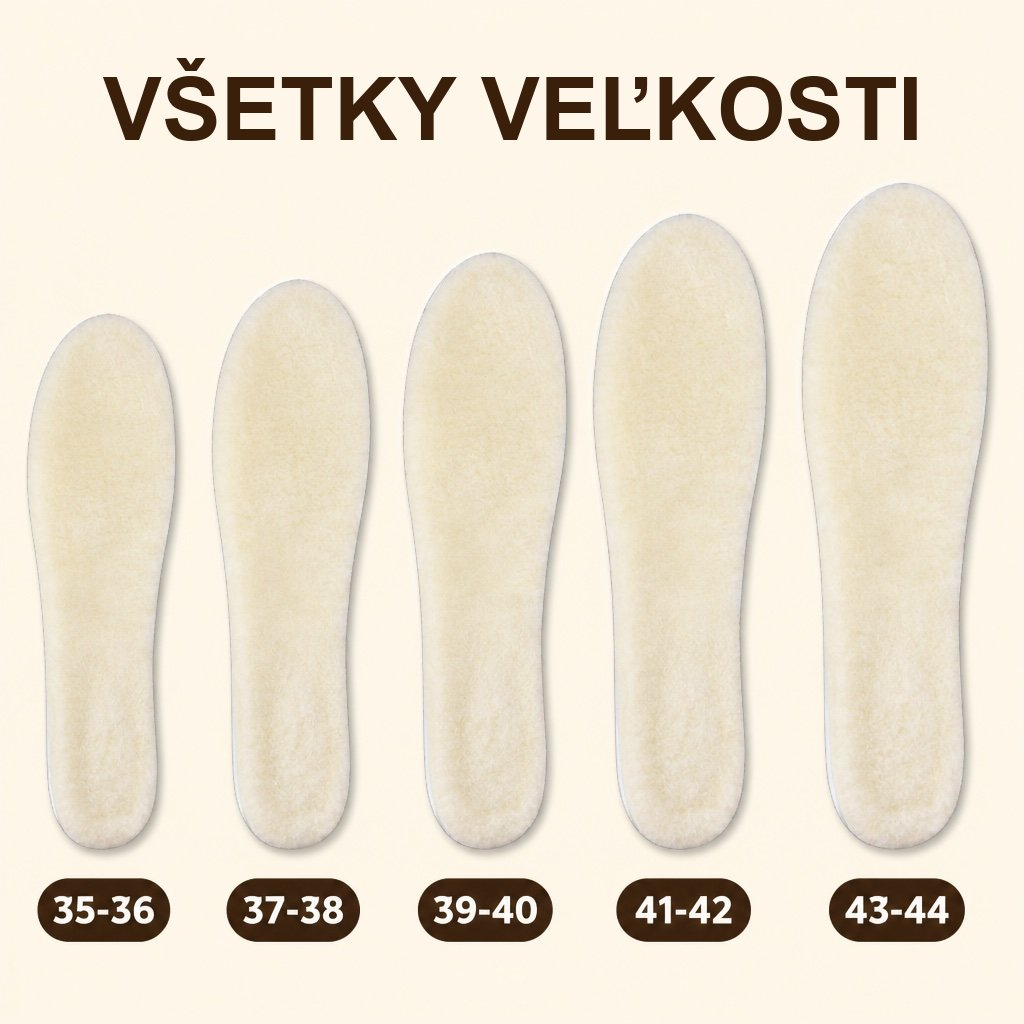
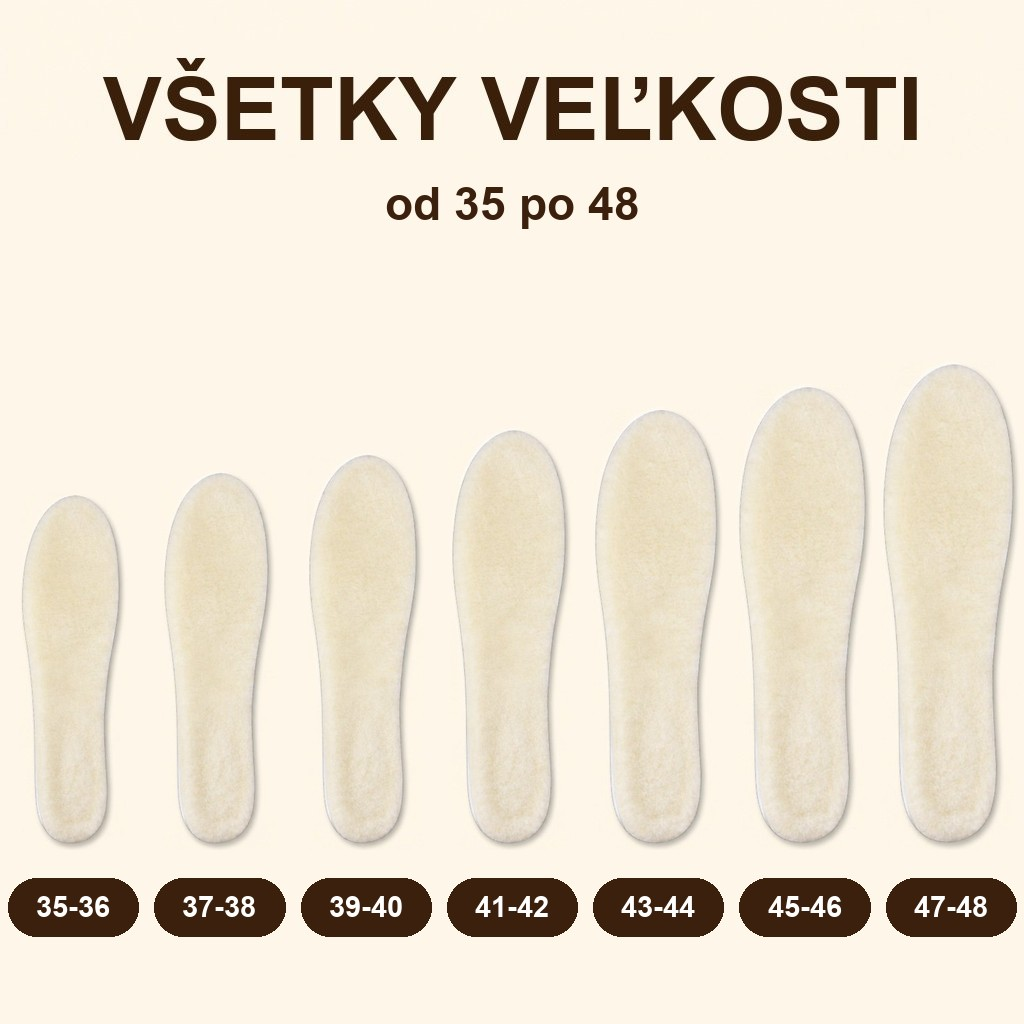
deploy 2026-11-27-1102

diff --git a/sk/toplin-zimne-vlozky/index.html b/sk/toplin-zimne-vlozky/index.html
@@ -4,7 +4,7 @@
 <meta charset="utf-8">
 <meta name="viewport" content="width=device-width, initial-scale=1, viewport-fit=cover">
 <title>TOPLIN | Zimné termo vložky do čižiem aj tenisiek</title>
-<meta name="description" content="Termo vložky TOPLIN: hustý plyš drží teplo nôh, dierkovaná EVA podložka púšťa vlhkosť von, vankúšik pod pätou tlmí krok. 5 veľkostí, platba na dobierku bez poplatku, dodanie do 1–2 dní.">
+<meta name="description" content="Termo vložky TOPLIN: hustý plyš drží teplo nôh, dierkovaná EVA podložka púšťa vlhkosť von, vankúšik pod pätou tlmí krok. 7 veľkostí od 35 do 48, platba na dobierku bez poplatku, dodanie do 1–2 dní.">
 <meta name="robots" content="noindex,follow">
 <link rel="icon" href="https://lp.auravelis.eu/favicon-32.png" sizes="32x32" type="image/png">
 <link rel="icon" href="https://lp.auravelis.eu/favicon-16.png" sizes="16x16" type="image/png">
@@ -255,7 +255,7 @@ window.lpSlug = function(){
     <img src="assets/product.jpg" alt="Pár vložiek TOPLIN — plyšová vrchná strana a dierkovaná spodná strana" loading="lazy" decoding="async" width="1024" height="1024" data-thumb="assets/thumbs/product.jpg">
     <img src="assets/lifestyle.jpg" alt="Vkladanie vložky TOPLIN do zimnej čižmy" loading="lazy" decoding="async" width="1024" height="1024" data-thumb="assets/thumbs/lifestyle.jpg">
     <img src="assets/benefits.jpg" alt="Prečo TOPLIN — drží teplo, odvádza vlhkosť, tlmí krok" loading="lazy" decoding="async" width="1024" height="1024" data-thumb="assets/thumbs/benefits.jpg">
-    <img src="assets/sizes.jpg" alt="TOPLIN vo veľkostiach od 35-36 po 43-44" loading="lazy" decoding="async" width="1024" height="1024" data-thumb="assets/thumbs/sizes.jpg">
+    <img src="assets/sizes.jpg" alt="TOPLIN vo veľkostiach od 35-36 po 47-48" loading="lazy" decoding="async" width="1024" height="1024" data-thumb="assets/thumbs/sizes.jpg">
     <img src="assets/howto.jpg" alt="Ako vložiť TOPLIN do topánky v troch krokoch" loading="lazy" decoding="async" width="1024" height="1024" data-thumb="assets/thumbs/howto.jpg">
   </div>
 </div>
@@ -264,7 +264,7 @@ window.lpSlug = function(){
 
 <div class="wrap hero-copy">
   
-  <div class="kick"><b>TOPLIN</b><span>plyš + EVA · 5 veľkostí od 35 do 44</span></div>
+  <div class="kick"><b>TOPLIN</b><span>plyš + EVA · 7 veľkostí od 35 do 48</span></div>
 
   <h1>TOPLIN | Zimné termo vložky s plyšom</h1>
 
@@ -305,7 +305,7 @@ window.lpSlug = function(){
 
   <div class="deliv">🚚 Objednaj dnes — dodanie do 1–2 dní</div>
   <div class="pays"><span>DOBIERKA</span><span>HOTOVOSŤ</span><span>KARTA</span><span>PAYPAL</span></div>
-  <div class="rowline">📏 <b>5 veľkostí</b> od 35 do 44</div>
+  <div class="rowline">📏 <b>7 veľkostí</b> od 35 do 48</div>
   <div class="rowline">🚚 <b>Dodanie do 1–2 dní</b> kuriérom na adresu</div>
   <div class="rowline">💵 <b>Platba na dobierku</b> bez poplatku — v hotovosti alebo kartou</div>
   
@@ -322,7 +322,7 @@ window.lpSlug = function(){
 <div class="wrap">
   <div class="faq" id="faq">
     <details id="faqSize"><summary><span class="fi">📏</span>Akú veľkosť si mám vybrať?</summary>
-      <p>Vyber podľa čísla obuvi, ktoré bežne nosíš — na výber je 35-36, 37-38, 39-40, 41-42 a 43-44. Ak si medzi dvoma veľkosťami, vezmi väčšiu: vložku ľahko zastrihneš nožnicami podľa pôvodnej vložky z topánky.</p></details>
+      <p>Vyber podľa čísla obuvi, ktoré bežne nosíš — na výber je 35-36, 37-38, 39-40, 41-42, 43-44, 45-46 a 47-48. Ak si medzi dvoma veľkosťami, vezmi väčšiu: vložku ľahko zastrihneš nožnicami podľa pôvodnej vložky z topánky.</p></details>
     <details><summary><span class="fi">🥾</span>Nebude mi topánka tesná?</summary>
       <p>TOPLIN je hrubší ako tenká vložka z výroby — práve vrstva plyšu drží teplo. Preto vždy najprv vyber pôvodnú vložku a TOPLIN vlož na jej miesto, nikdy nie na ňu. V čižmách, kanadách aj teniskách tak budeš mať približne toľko miesta ako predtým. Do veľmi úzkych topánok bez vyberateľnej vložky sa nehodí.</p></details>
     <details><summary><span class="fi">🔥</span>Ako plyš drží teplo a prečo je dôležitá suchá noha?</summary>
@@ -352,7 +352,7 @@ window.lpSlug = function(){
   
   <div class="tsts">
     <div class="tst"><div class="av">👷</div><div><p>Pracuješ vonku alebo v chlade — na stavbe, v sklade alebo pri rozvoze. TOPLIN vložíš do pracovnej obuvi namiesto pôvodnej vložky a druhé ponožky môžu ostať doma.</p><div class="who">Na prácu vonku</div></div></div>
-    <div class="tst"><div class="av">👪</div><div><p>Kupuješ pre celú rodinu? V jednom balíku si ku každému páru vyberieš inú veľkosť — od 35 po 44, všetko v jednej objednávke.</p><div class="who">Pre celú rodinu</div></div></div>
+    <div class="tst"><div class="av">👪</div><div><p>Kupuješ pre celú rodinu? V jednom balíku si ku každému páru vyberieš inú veľkosť — od 35 po 48, všetko v jednej objednávke.</p><div class="who">Pre celú rodinu</div></div></div>
     <div class="tst"><div class="av">🚌</div><div><p>Čakáš na autobus, venčíš psa alebo stojíš na vianočných trhoch — plyš drží teplo pri chodidle a vankúšik pod pätou tlmí každý krok.</p><div class="who">Na každý zimný deň</div></div></div>
   </div>
 
@@ -410,7 +410,7 @@ window.lpSlug = function(){
     <h2 class="center">Prečo práve TOPLIN</h2>
     <div class="facts">
       <div><b>2</b><span>vrstvy: plyš + EVA</span></div>
-      <div><b>5</b><span>veľkostí (35–44)</span></div>
+      <div><b>7</b><span>veľkostí (35–48)</span></div>
       <div><b>1–2</b><span>dni do doručenia</span></div>
     </div>
     <table class="cmp">
@@ -483,21 +483,29 @@ const VARIANTS = [
   {qty:1, opt:"39-40", unit:11.99, variantId:"59436378915147"},
   {qty:1, opt:"41-42", unit:11.99, variantId:"59436378947915"},
   {qty:1, opt:"43-44", unit:11.99, variantId:"59436378980683"},
+  {qty:1, opt:"45-46", unit:11.99, variantId:"59493756731723"},
+  {qty:1, opt:"47-48", unit:11.99, variantId:"59493756764491"},
   {qty:2, opt:"35-36", unit:8.49, variantId:"59436379013451"},
   {qty:2, opt:"37-38", unit:8.49, variantId:"59436379046219"},
   {qty:2, opt:"39-40", unit:8.49, variantId:"59436379078987"},
   {qty:2, opt:"41-42", unit:8.49, variantId:"59436379111755"},
   {qty:2, opt:"43-44", unit:8.49, variantId:"59436379144523"},
+  {qty:2, opt:"45-46", unit:8.49, variantId:"59493756797259"},
+  {qty:2, opt:"47-48", unit:8.49, variantId:"59493756830027"},
   {qty:3, opt:"35-36", unit:6.99, variantId:"59436379177291"},
   {qty:3, opt:"37-38", unit:6.99, variantId:"59436379210059"},
   {qty:3, opt:"39-40", unit:6.99, variantId:"59436379242827"},
   {qty:3, opt:"41-42", unit:6.99, variantId:"59436379275595"},
   {qty:3, opt:"43-44", unit:6.99, variantId:"59436379308363"},
+  {qty:3, opt:"45-46", unit:6.99, variantId:"59493756862795"},
+  {qty:3, opt:"47-48", unit:6.99, variantId:"59493756895563"},
   {qty:4, opt:"35-36", unit:6.29, variantId:"59436379341131"},
   {qty:4, opt:"37-38", unit:6.29, variantId:"59436379373899"},
   {qty:4, opt:"39-40", unit:6.29, variantId:"59436379406667"},
   {qty:4, opt:"41-42", unit:6.29, variantId:"59436379439435"},
-  {qty:4, opt:"43-44", unit:6.29, variantId:"59436379472203"}
+  {qty:4, opt:"43-44", unit:6.29, variantId:"59436379472203"},
+  {qty:4, opt:"45-46", unit:6.29, variantId:"59493756928331"},
+  {qty:4, opt:"47-48", unit:6.29, variantId:"59493756961099"}
 ];
 const BASE = "https://sk.auravelis.eu";
 const FREE_SHIP_QTY = 3, SHIP_CODE = "BUNDLE3_SK_SHIP", SHIP_C = 349;   
@@ -661,7 +669,7 @@ function mq(el, items){
   const one = items.map(t => `<span>${t}</span>`).join('');
   document.getElementById(el).innerHTML = one + one;   
 }
-mq('mq1', ['💵 Platba na dobierku bez poplatku', '🚚 Od 3 párov doprava zadarmo', '📏 5 veľkostí od 35 do 44', '↩ 30 dní na vrátenie']);
+mq('mq1', ['💵 Platba na dobierku bez poplatku', '🚚 Od 3 párov doprava zadarmo', '📏 7 veľkostí od 35 do 48', '↩ 30 dní na vrátenie']);
 mq('mq2', ['🔥 Plyš, ktorý drží teplo', '💧 Dierky púšťajú vlhkosť von', '🫧 Mäkký krok', '🥾 Do čižiem aj tenisiek']);
 mq('mq3', ['🚚 Dodanie do 1–2 dní', '💵 Platba na dobierku', '↩ 30 dní na vrátenie', '🛡 Záruka 24 mesiacov']);
 
